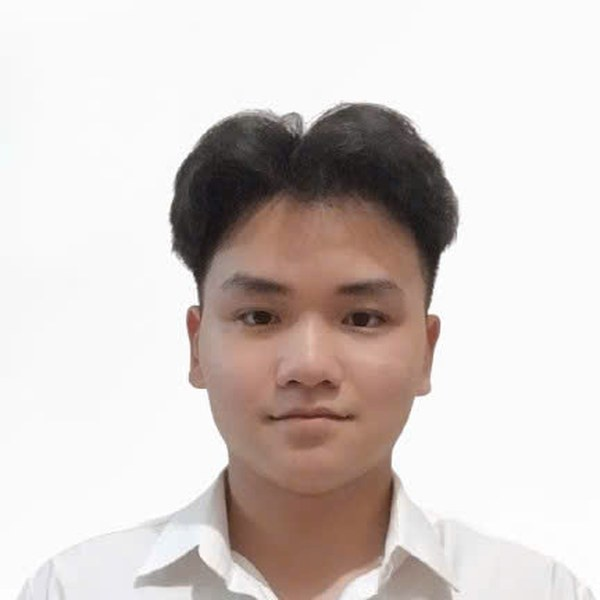
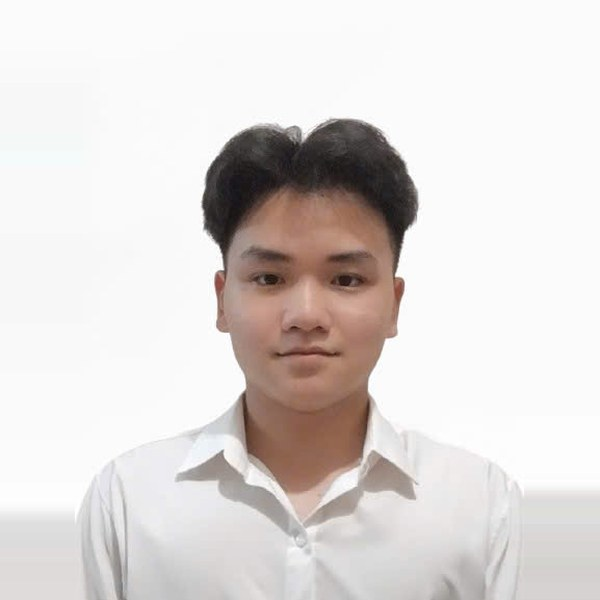
Show head and shoulders in profile photo
Claude-Session: https://claude.ai/code/session_015qeo7LFoYAgooTiezi5mWp

diff --git a/index.html b/index.html
@@ -52,7 +52,7 @@
     <div class="container">
         <h2 data-i18n="about.title">About Me</h2>
         <div class="about-content">
-            <img src="assets/images/profile.jpg?v=2" alt="Hoàng Văn Hiếu" class="profile-photo">
+            <img src="assets/images/profile.jpg?v=3" alt="Hoàng Văn Hiếu" class="profile-photo">
             <div class="about-text">
                 <p data-i18n="about.p1">I'm a recent graduate and Data Analyst who enjoys turning messy, real-world data into clear stories and actionable insights.</p>
                 <p data-i18n="about.p2">Through hands-on projects, I've practiced the full analytics workflow: cleaning and modeling data with SQL and Python, building Power BI dashboards around business questions, and defining the KPIs that matter. My work ranges from e-commerce and fintech analysis to an end-to-end FMCG data pipeline.</p>
